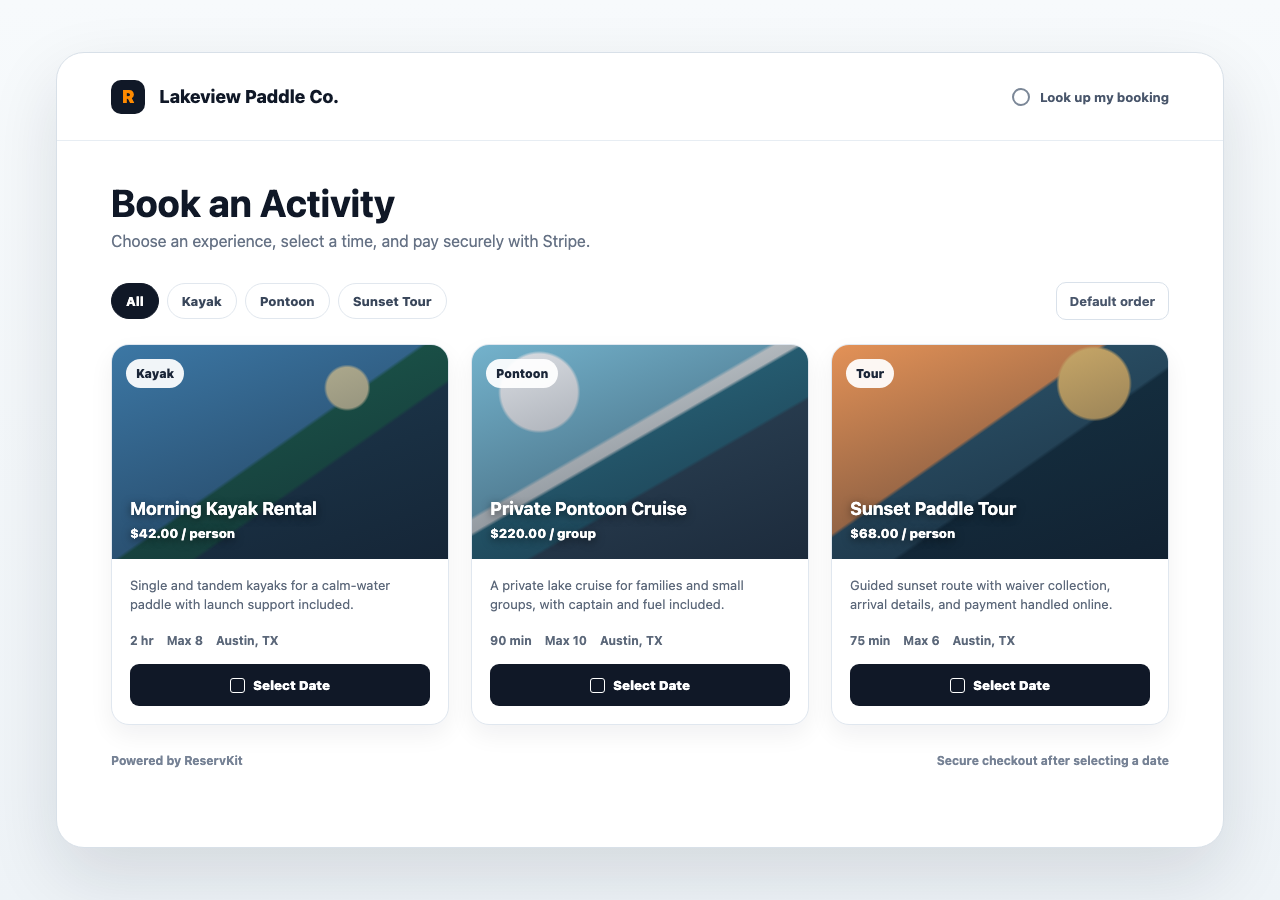
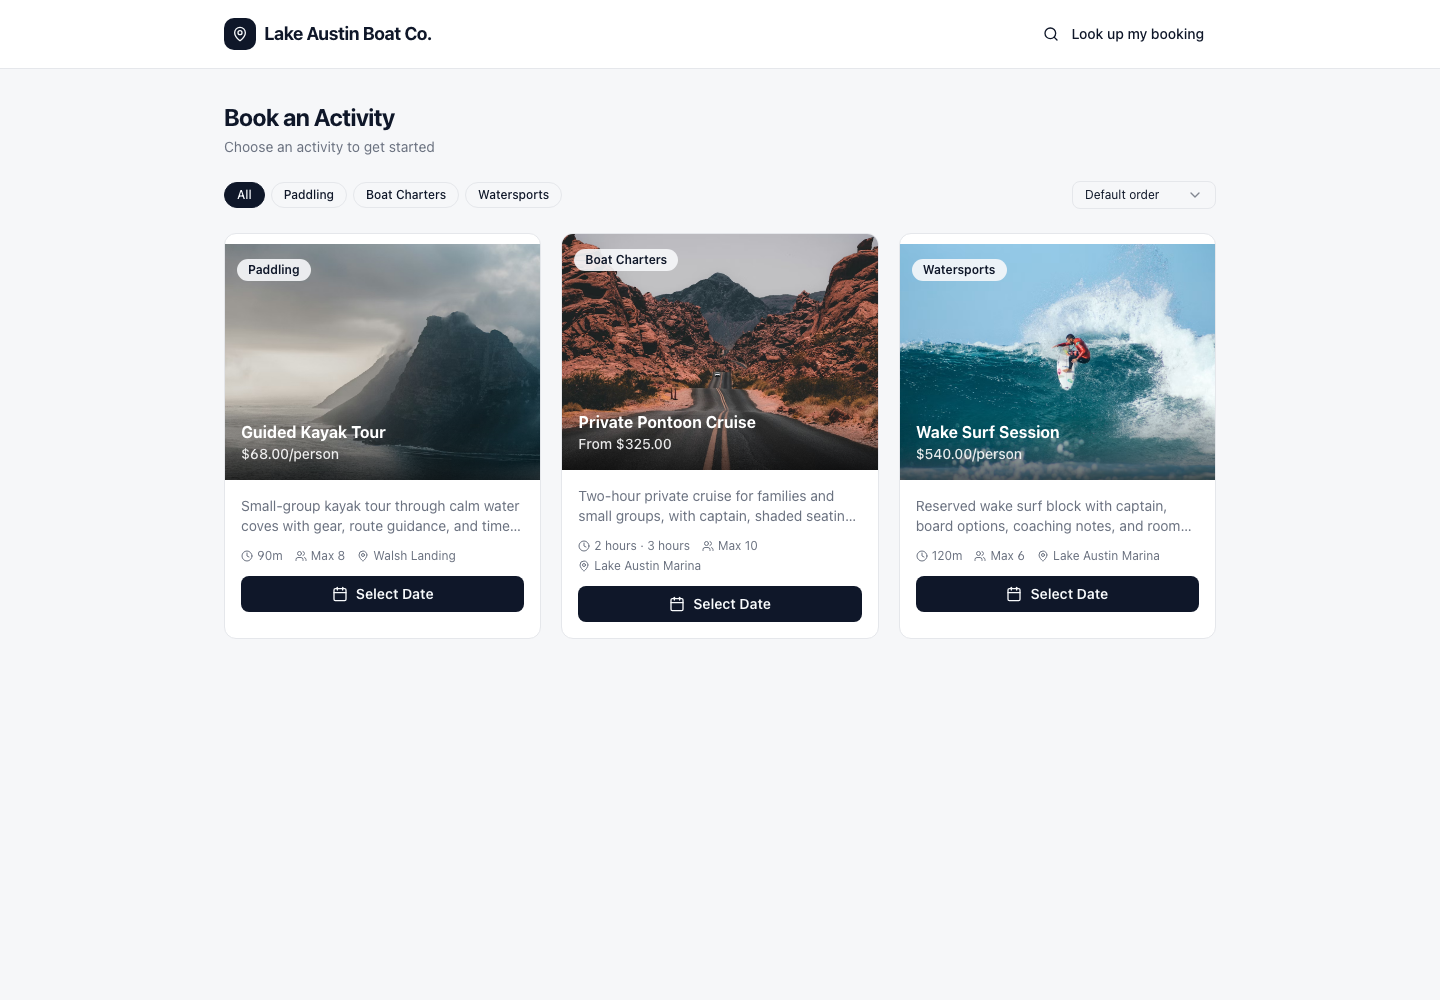
Polish product proof section

diff --git a/app/page.tsx b/app/page.tsx
@@ -110,7 +110,9 @@ const setupSteps = [
 const productImages = [
   {
     src: "/product-public-booking-live.png",
-    alt: "ReservKit public booking page with configured activity cards",
+    width: 1440,
+    height: 1000,
+    alt: "ReservKit public booking page with configured lake activities",
     title: "Customer booking page",
     body: "Guests choose an activity, review details, select a date, and move toward secure checkout.",
     callouts: [
@@ -121,6 +123,8 @@ const productImages = [
   },
   {
     src: "/product-customer-lookup.png",
+    width: 1280,
+    height: 900,
     alt: "ReservKit customer booking lookup page",
     title: "Booking lookup",
     body: "Customers can return to booking details without creating an account, which keeps support simple after purchase.",
@@ -129,6 +133,29 @@ const productImages = [
       { text: "Booking email lookup", className: "right-[12%] top-[42%]" },
       { text: "Guest-friendly support", className: "left-[34%] bottom-[18%]" },
     ],
+  },
+];
+
+const operatorWorkflowCards = [
+  {
+    title: "Booking records",
+    body: "Each booking ties the guest, selected activity, time slot, payment status, waiver status, staff notes, and operational details together.",
+    bullets: ["Payment and balance status", "Guest count and notes", "Assigned staff"],
+  },
+  {
+    title: "Check-in manifest",
+    body: "Day-of teams can work from a manifest that separates ready bookings from the ones that still need attention.",
+    bullets: ["Ready and attention views", "Guest arrival tracking", "Printable and CSV-ready"],
+  },
+  {
+    title: "Waiver workflow",
+    body: "Required waivers attach to activities, collect guest signatures before arrival, and stay connected to the operator booking record.",
+    bullets: ["Per-guest signer status", "Shareable waiver link", "Signed record trail"],
+  },
+  {
+    title: "Stripe payments",
+    body: "ReservKit supports Stripe Connect, deposits, balances, coupons, refunds, and operator-owned checkout records.",
+    bullets: ["Operator Stripe account", "Deposits and balances", "Refund-ready history"],
   },
 ];
 
@@ -189,8 +216,8 @@ export default function Home() {
               <Image
                 src="/product-public-booking-live.png"
                 alt="ReservKit public booking page screenshot"
-                width={1280}
-                height={900}
+                width={1440}
+                height={1000}
                 priority
                 className="rounded-2xl object-cover object-top"
               />
@@ -260,7 +287,7 @@ export default function Home() {
             <div>
               <h2 className="text-3xl font-bold tracking-tight text-navy sm:text-4xl">See ReservKit in action</h2>
               <p className="mt-4 max-w-2xl text-lg leading-relaxed text-slate-600">
-                The current public captures show the guest booking path and lookup flow. Operator dashboard and waiver captures will be added once clean configured examples are ready.
+                The guest-facing flow stays clean for customers. Behind it, ReservKit keeps the operator record connected to payments, waivers, staffing, and day-of work.
               </p>
             </div>
             <div className="mt-12 space-y-12">
@@ -270,8 +297,8 @@ export default function Home() {
                     <Image
                       src={image.src}
                       alt={image.alt}
-                      width={1920}
-                      height={1350}
+                      width={image.width}
+                      height={image.height}
                       loading="lazy"
                       className="w-full object-cover object-top"
                     />
@@ -288,6 +315,22 @@ export default function Home() {
                     <h3 className="text-lg font-bold text-navy">{image.title}</h3>
                     <p className="mt-2 text-sm leading-relaxed text-slate-600">{image.body}</p>
                   </div>
+                </article>
+              ))}
+            </div>
+            <div className="mt-10 grid gap-5 md:grid-cols-2 lg:grid-cols-4">
+              {operatorWorkflowCards.map((card) => (
+                <article key={card.title} className="rounded-2xl border border-[var(--color-border)] bg-white p-5 shadow-sm">
+                  <h3 className="text-base font-bold text-navy">{card.title}</h3>
+                  <p className="mt-3 text-sm leading-relaxed text-slate-600">{card.body}</p>
+                  <ul className="mt-4 space-y-2">
+                    {card.bullets.map((bullet) => (
+                      <li key={bullet} className="flex gap-2 text-sm text-slate-700">
+                        <CheckCircle2 className="mt-0.5 h-4 w-4 shrink-0 text-emerald-500" aria-hidden="true" />
+                        {bullet}
+                      </li>
+                    ))}
+                  </ul>
                 </article>
               ))}
             </div>